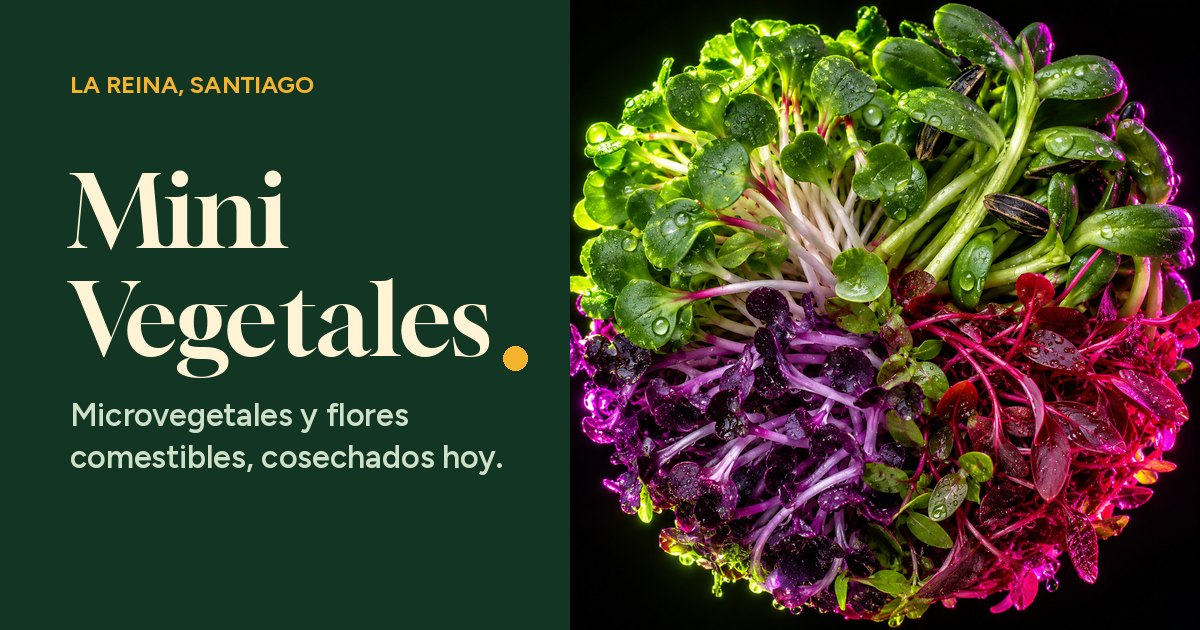
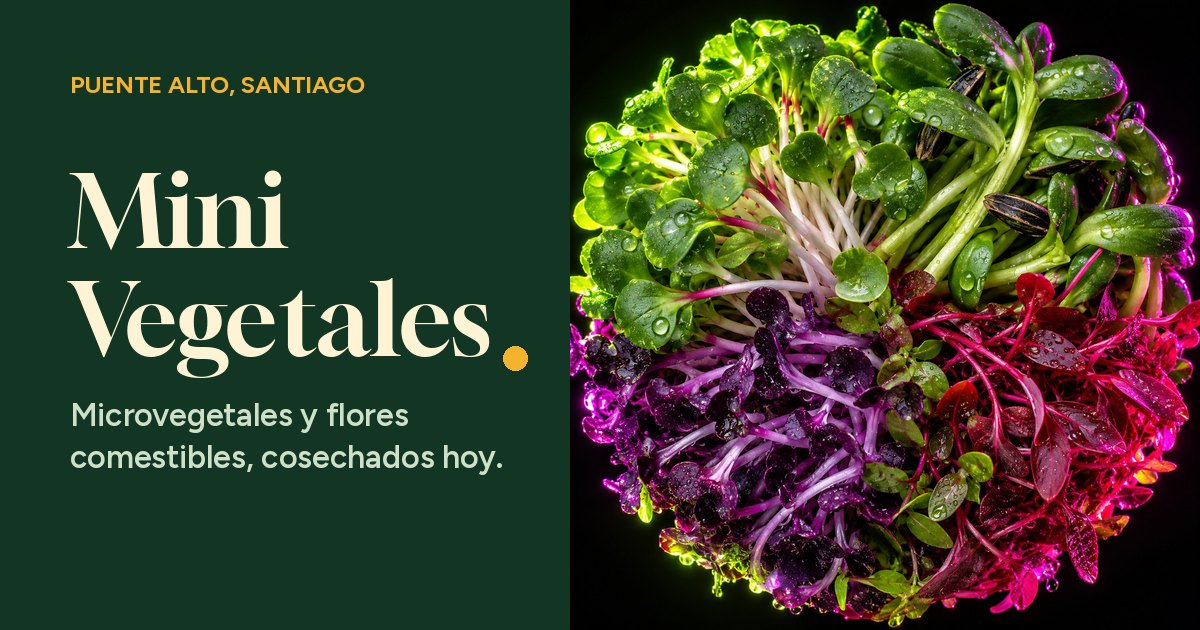
Cambia la direccion a Pasaje Rio Petrohue 4783, Puente Alto (textos, mapa, JSON-LD, SEO e imagen para compartir)

Changed region(s): [[0.0617, 0.1206, 0.3083, 0.1508]]

diff --git a/index.html b/index.html
@@ -4,7 +4,7 @@
   <meta charset="UTF-8">
   <meta name="viewport" content="width=device-width, initial-scale=1.0">
   <title>Mini Vegetales | Microvegetales y flores comestibles en Santiago</title>
-  <meta name="description" content="Granja vertical en La Reina, Santiago. Microvegetales y flores comestibles cosechados el mismo día para restaurantes, hoteles, cafeterías y hogares.">
+  <meta name="description" content="Granja vertical en Puente Alto, Santiago. Microvegetales y flores comestibles cosechados el mismo día para restaurantes, hoteles, cafeterías y hogares.">
   <meta name="theme-color" content="#123524">
   <link rel="canonical" href="https://minivegetales.cl/">
   <meta name="robots" content="index, follow, max-image-preview:large">
@@ -16,7 +16,7 @@
   <meta property="og:site_name" content="Mini Vegetales">
   <meta property="og:url" content="https://minivegetales.cl/">
   <meta property="og:title" content="Mini Vegetales | Microvegetales y flores comestibles">
-  <meta property="og:description" content="Cosechados hoy en La Reina y entregados en Santiago. Arma tu pedido y envíalo por WhatsApp.">
+  <meta property="og:description" content="Cosechados hoy en Puente Alto y entregados en Santiago. Arma tu pedido y envíalo por WhatsApp.">
   <meta property="og:image" content="https://minivegetales.cl/assets/og-image.jpg">
   <meta property="og:image:type" content="image/jpeg">
   <meta property="og:image:width" content="1200">
@@ -24,7 +24,7 @@
   <meta property="og:image:alt" content="Mini Vegetales: mezcla de microvegetales verdes, morados y rojos con gotas de agua">
   <meta name="twitter:card" content="summary_large_image">
   <meta name="twitter:title" content="Mini Vegetales | Microvegetales y flores comestibles">
-  <meta name="twitter:description" content="Cosechados hoy en La Reina y entregados en Santiago.">
+  <meta name="twitter:description" content="Cosechados hoy en Puente Alto y entregados en Santiago.">
   <meta name="twitter:image" content="https://minivegetales.cl/assets/og-image.jpg">
   <!-- Marca la página como "con JS" ANTES de pintar: los efectos de aparición solo ocultan
        contenido si el script realmente va a poder mostrarlo después. -->
@@ -39,7 +39,7 @@
     "@context": "https://schema.org",
     "@type": "LocalBusiness",
     "name": "Mini Vegetales",
-    "description": "Granja vertical urbana de microvegetales y flores comestibles en La Reina, Santiago.",
+    "description": "Granja vertical urbana de microvegetales y flores comestibles en Puente Alto, Santiago.",
     "@id": "https://minivegetales.cl/#negocio",
     "url": "https://minivegetales.cl/",
     "telephone": "+56979886031",
@@ -49,8 +49,8 @@
     "areaServed": { "@type": "City", "name": "Santiago" },
     "address": {
       "@type": "PostalAddress",
-      "streetAddress": "Av. Alcalde Fernando Castillo Velasco 6989",
-      "addressLocality": "La Reina",
+      "streetAddress": "Pasaje Río Petrohue 4783",
+      "addressLocality": "Puente Alto",
       "addressRegion": "Región Metropolitana",
       "addressCountry": "CL"
     },
@@ -89,7 +89,7 @@
     <section class="hero" id="inicio">
       <div class="container hero-grid">
         <div class="hero-copy" data-reveal>
-          <p class="eyebrow">Granja vertical · La Reina, Santiago</p>
+          <p class="eyebrow">Granja vertical · Puente Alto, Santiago</p>
           <h1>Microvegetales y flores comestibles, <span class="accent">cosechados hoy</span>.</h1>
           <p class="hero-sub">Sabor, color y textura para tu próximo servicio. Cultivados en vertical, sin tierra y sin pesticidas, y entregados en Santiago el mismo día de la cosecha.</p>
           <div class="hero-ctas">
@@ -408,7 +408,7 @@
           <video id="farmVideo" muted loop playsinline autoplay preload="metadata" poster="assets/video/granja-poster.jpg" aria-label="Recorrido por nuestra sala de cultivo: estantes con luces LED y bandejas de microvegetales">
             <source src="assets/video/granja.mp4" type="video/mp4">
           </video>
-          <figcaption>Así crecen: nuestra sala de cultivo en La Reina</figcaption>
+          <figcaption>Así crecen: nuestra sala de cultivo en Puente Alto</figcaption>
         </figure>
       </div>
     </section>
@@ -427,7 +427,7 @@
           </details>
           <details>
             <summary>¿Entregan a domicilio?</summary>
-            <p>Cosechamos y entregamos en Santiago el mismo día, o puedes retirar en la granja, en La Reina. Escríbenos tu comuna y te confirmamos la entrega.</p>
+            <p>Cosechamos y entregamos en Santiago el mismo día, o puedes retirar en la granja, en Puente Alto. Escríbenos tu comuna y te confirmamos la entrega.</p>
           </details>
           <details>
             <summary>¿A quiénes venden?</summary>
@@ -485,9 +485,9 @@
             </a>
           </li>
           <li data-reveal>
-            <a class="contact-card" href="https://maps.google.com/?q=Alcalde+Fernando+Castillo+Velasco+6989+La+Reina+Santiago" target="_blank" rel="noopener">
+            <a class="contact-card" href="https://maps.google.com/?q=Pasaje+R%C3%ADo+Petrohue+4783+Puente+Alto+Santiago" target="_blank" rel="noopener">
               <span class="contact-title">Granja</span>
-              <span class="contact-value">Av. Alcalde F. Castillo Velasco 6989, La Reina</span>
+              <span class="contact-value">Pasaje Río Petrohue 4783, Puente Alto</span>
             </a>
           </li>
           <li data-reveal>
@@ -510,7 +510,7 @@
   <footer class="footer">
     <div class="container footer-inner">
       <a href="#inicio" class="logo logo-light" aria-label="Mini Vegetales, volver arriba">Mini Vegetales<i class="logo-dot" aria-hidden="true"></i></a>
-      <p>Granja vertical urbana · La Reina, Santiago de Chile</p>
+      <p>Granja vertical urbana · Puente Alto, Santiago de Chile</p>
       <ul class="footer-links">
         <li><a href="https://www.instagram.com/minivegetales/" target="_blank" rel="noopener">Instagram</a></li>
         <li><a href="https://www.facebook.com/Minivegetales-264967574153004/?ref=br_rs" target="_blank" rel="noopener">Facebook</a></li>

diff --git a/AGENTS.md b/AGENTS.md
@@ -7,7 +7,7 @@ Actualizar esto cuando algo cambie de forma relevante.
 ## Qué es esto
 
 Landing estática (sin build step, sin framework) para **Mini Vegetales**,
-granja vertical de microgreens en Santiago, La Reina. Sin carrito — el
+granja vertical de microgreens en Santiago, Puente Alto. Sin carrito — el
 flujo de venta es "escribinos por WhatsApp".
 
 - **Stack**: HTML/CSS/JS vanilla puro. Nada de npm/bundlers para el sitio
